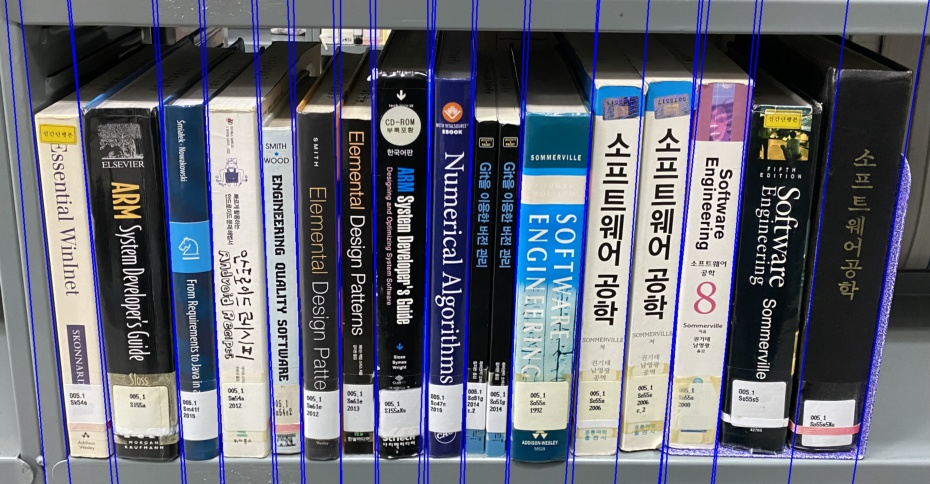
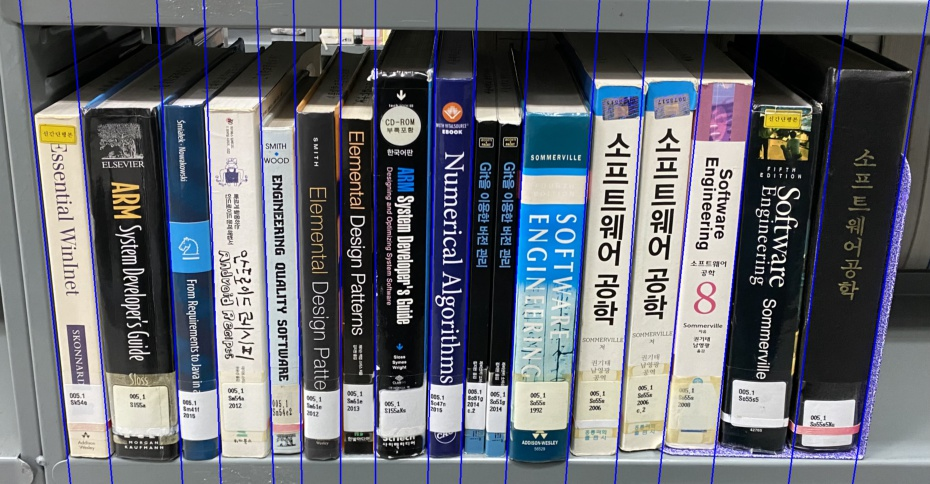
finalize_lines 구현

diff --git a/book_segmentation/book_segmentation.py b/book_segmentation/book_segmentation.py
@@ -26,7 +26,7 @@ def trim_lines(points: list, y_max: int, x_max: int):
         try:
             m = (y2 - y1) / (x2 - x1)
         except ZeroDivisionError:
-            shortened_points.append(((x1, y_max), (x1, 0)))
+            shortened_points.append(((x1, 0), (x1, y_max)))
             continue
 
         if abs(m) > slope_threshold:
@@ -56,7 +56,11 @@ def trim_lines(points: list, y_max: int, x_max: int):
             else:
                 start_point = (0, 0)
                 end_point(x_max, y_max)
-        shortened_points.append((start_point, end_point))
+
+        if start_point[1] < end_point[1]:
+            shortened_points.append((start_point, end_point))
+        else:
+            shortened_points.append((end_point, start_point))
     return shortened_points
 
 
@@ -76,7 +80,7 @@ def remove_duplicate_lines(sorted_points, horizontal=False):
                 non_duplicate_points.append(point)
                 last_x1 = x1
 
-            elif abs(last_x1 - x1) >= 25:
+            elif abs(last_x1 - x1) >= 15:
                 non_duplicate_points.append(point)
                 last_x1 = x1
         else:
@@ -94,7 +98,7 @@ def remove_duplicate_lines(sorted_points, horizontal=False):
 def convert_to_xy(
     hough_lines: np.ndarray,
     max_length: int = 2000,
-) -> List[Tuple]:
+) -> List[Tuple[Tuple[int, int], Tuple[int, int]]]:
     """rho, theta로 표현된 Hough Line을 ((x1, y1), (x2, y2)) 꼴의 선분 집합으로 변환한다.
 
     Args:
@@ -115,9 +119,9 @@ def convert_to_xy(
         y1 = int(y0 + max_length * a)
         x2 = int(x0 + max_length * b)
         y2 = int(y0 - max_length * a)
-        start = (x1, y1)
-        end = (x2, y2)
-        points.append((start, end))
+        point1 = (x1, y1)
+        point2 = (x2, y2)
+        points.append((point1, point2))
     return points
 
 
@@ -211,8 +215,50 @@ def get_hough_lines(img: np.ndarray, horizontal: bool = False):
         points = leave_verticals_only(points)
 
     points = trim_lines(points, height, width)
+    points = finalize_lines(points)
 
     return points
+
+
+def finalize_lines(lines: list) -> list:
+    """Book Spine 경계를 확정한다.
+
+    Args:
+        lines (list): 선분들의 집합
+
+    Returns:
+        list: 선분들의 집합. 경계 당 딱 하나만.
+    """
+    finalized = []
+
+    lines.sort(key=lambda val: val[0][0])  # 시작점(위쪽)의 x좌표 기준으로 정렬
+    for i in range(len(lines) - 1):
+        line1, line2 = lines[i], lines[i + 1]
+        upper_x_gap = line2[0][0] - line1[0][0]
+        lower_x_gap = line2[1][0] - line1[1][0]
+        if upper_x_gap * lower_x_gap < 0:
+            continue  # 선이 교차하는 경우
+        if upper_x_gap < 10 or lower_x_gap < 10:
+            continue  # 선이 너무 가깝게 붙어있는 경우
+        finalized.append(line1)
+    finalized.append(lines[-1])
+
+    # 한번 더 필터링
+    finalized2 = []
+    for i in range(len(finalized) - 1):
+        line1, line2 = finalized[i], finalized[i + 1]
+        upper_x_gap = line2[0][0] - line1[0][0]
+        lower_x_gap = line2[1][0] - line1[1][0]
+        if upper_x_gap < 20 or lower_x_gap < 20:
+            continue  # 선이 너무 가깝게 붙어있는 경우
+        ratio = upper_x_gap / lower_x_gap
+        if ratio < 1:
+            ratio = 1 / ratio
+        if ratio > 1.7:
+            continue
+        finalized2.append(line1)
+    finalized2.append(finalized[-1])
+    return finalized2
 
 
 #%%
@@ -227,3 +273,5 @@ if __name__ == "__main__":
         resized = resize_img(np_image, target_height=1000)
         img_with_line = draw_hough_lines(resized, horizontal=False)
         show_image(img_with_line, filename=f"out{i}", save=True)
+
+# %%
